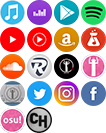
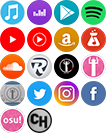
Clone Hero

Changed region(s): [[0.2264, 0.782, 0.4811, 1.0], [0.4811, 0.8722, 0.5094, 0.9323]]

diff --git a/js/original.js b/js/original.js
@@ -644,7 +644,8 @@ const songsData = [
       "deezer": "https://www.deezer.com/album/340814337",
       "spotify": "https://open.spotify.com/album/3XMeN6wxDUtFiLXXCalqY5?si=Kab0hMOgQ1yQxgccT-Kmkw",
       "youtubeMusic": "https://music.youtube.com/playlist?list=OLAK5uy_kUQ_oJC55UmZUwV00PKrSfJK5haezvg3M",
-      "amazon": "https://www.amazon.com/music/player/albums/B0B82L6LFV"
+      "amazon": "https://www.amazon.com/music/player/albums/B0B82L6LFV",
+      "cloneHero": "Test"
     }],
     "track": [
       {

diff --git a/js/song.js b/js/song.js
@@ -639,6 +639,7 @@ function platformTemplate(song){
     ${platform(song.url[0].soundCloud, "soundcloud", "SoundCloud")}
     ${platform(song.url[0].rocksmith, "rocksmith", "Rocksmith")}
     ${platform(song.url[0].osu, "osu", "osu!")}
+    ${platform(song.url[0].cloneHero, "clone-hero", "Clone Hero")}
   `;
 }
 

diff --git a/css/theme.css b/css/theme.css
@@ -246,6 +246,9 @@ h3{
 .i-osu{
   background-position: 0 -108px;
 }
+.i-clone-hero{
+  background-position: -27px -108px;
+}
 .platform-url{
   text-decoration:none;
   color: #000;
